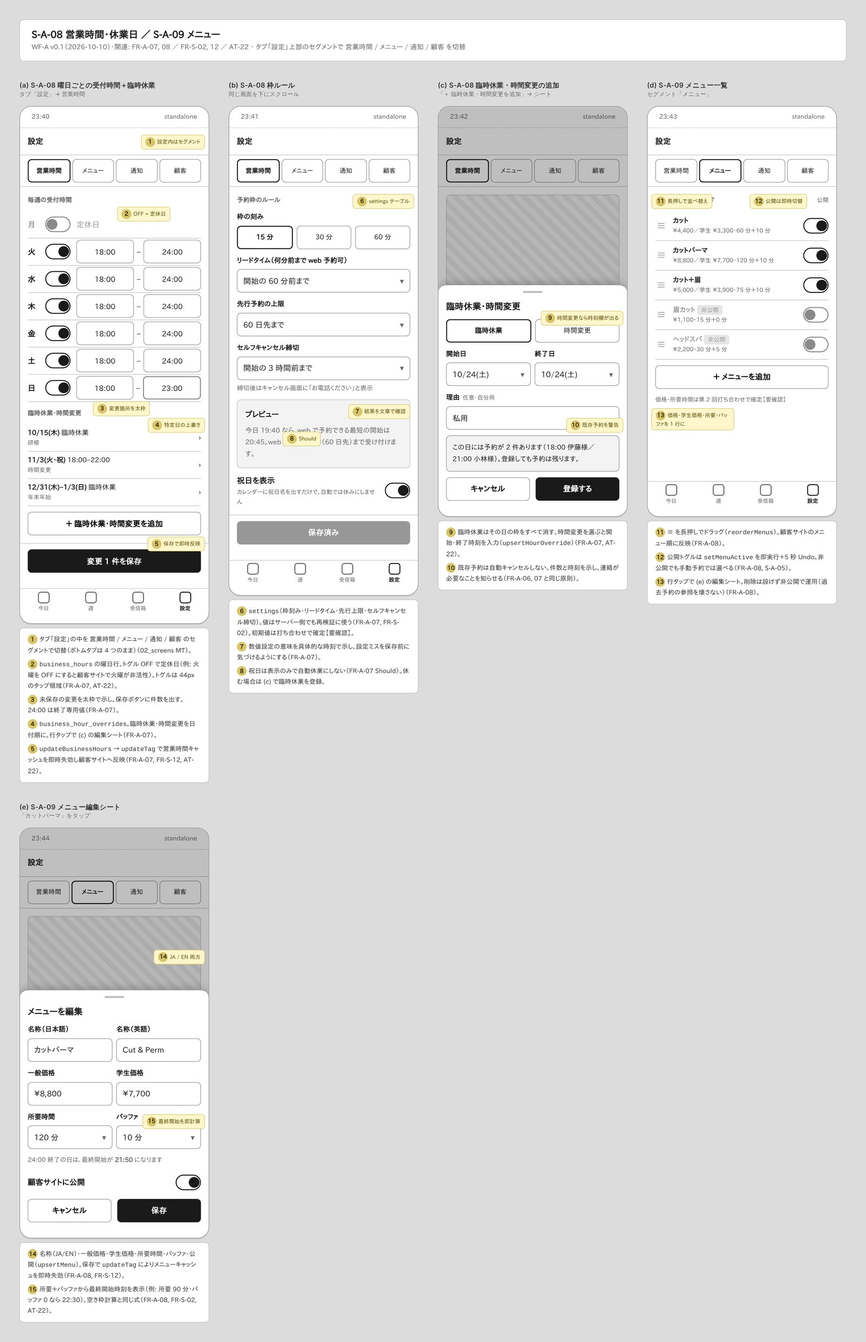
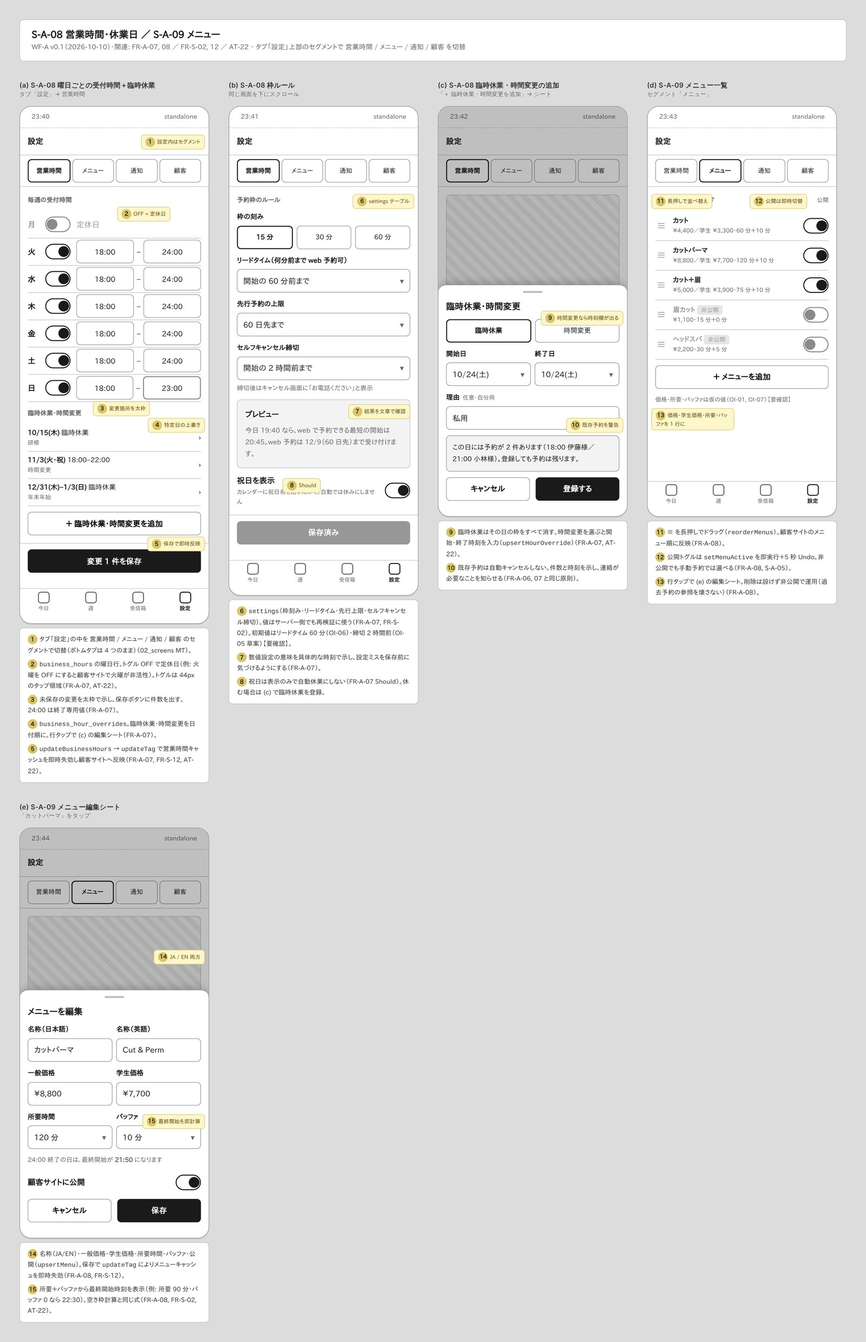
docs(wireframes): add admin PWA wireframes (10 screens, renders, flow doc, tools)
Claude-Session: https://claude.ai/code/session_01KB5shAyoFXW5CevLsyefNu

Changed region(s): [[0.25, 0.4659, 0.5, 0.528], [0.3125, 0.3106, 0.375, 0.3727]]

diff --git a/docs/04_wireframes/screens/admin_08_settings_hours_menus.html b/docs/04_wireframes/screens/admin_08_settings_hours_menus.html
@@ -100,7 +100,7 @@
       <div class="field"><span class="label">枠の刻み</span><div class="seg"><div class="radio on">15 分</div><div class="radio">30 分</div><div class="radio">60 分</div></div></div>
       <div class="field"><span class="label">リードタイム（何分前まで web 予約可）</span><div class="input sel filled">開始の 60 分前まで</div></div>
       <div class="field"><span class="label">先行予約の上限</span><div class="input sel filled">60 日先まで</div></div>
-      <div class="field"><span class="label">セルフキャンセル締切</span><div class="input sel filled">開始の 3 時間前まで</div><span class="help">締切後はキャンセル画面に「お電話ください」と表示</span></div>
+      <div class="field"><span class="label">セルフキャンセル締切</span><div class="input sel filled">開始の 2 時間前まで</div><span class="help">締切後はキャンセル画面に「お電話ください」と表示</span></div>
       <div class="card sunken"><b>プレビュー</b><p class="muted">今日 19:40 なら、web で予約できる最短の開始は 20:45。web 予約は 12/9（60 日先）まで受け付けます。</p></div>
       <div class="row between"><div><b>祝日を表示</b><p class="caption">カレンダーに祝日名を出すだけで、自動では休みにしません</p></div><span class="toggle on"></span></div>
     </div>
@@ -112,7 +112,7 @@
     <div class="note" style="top:764px;left:110px"><span class="n">8</span>Should</div>
   </div>
   <ul class="notes-list">
-    <li><span class="n">6</span><code>settings</code>（枠刻み・リードタイム・先行上限・セルフキャンセル締切）。値はサーバー側でも再検証に使う（FR-A-07, FR-S-02）。初期値は打ち合わせで確定【要確認】。</li>
+    <li><span class="n">6</span><code>settings</code>（枠刻み・リードタイム・先行上限・セルフキャンセル締切）。値はサーバー側でも再検証に使う（FR-A-07, FR-S-02）。初期値はリードタイム 60 分（OI-06）・締切 2 時間前（OI-05 草案）【要確認】。</li>
     <li><span class="n">7</span>数値設定の意味を具体的な時刻で示し、設定ミスを保存前に気づけるようにする（FR-A-07）。</li>
     <li><span class="n">8</span>祝日は表示のみで自動休業にしない（FR-A-07 Should）。休む場合は (c) で臨時休業を登録。</li>
   </ul>
@@ -163,7 +163,7 @@
         <div class="item" style="color:var(--wf-faint)"><span class="handle">≡</span><div class="grow"><b>ヘッドスパ</b> <span class="pill">非公開</span><br><span class="caption">¥2,200・30 分＋5 分</span></div><span class="toggle off"></span></div>
       </div>
       <button class="btn secondary">＋ メニューを追加</button>
-      <p class="caption">価格・所要時間は第 2 回打ち合わせで確定【要確認】</p>
+      <p class="caption">価格・所要・バッファは仮の値（OI-01, OI-07）【要確認】</p>
     </div>
     <nav class="tabbar"><div class="tab"><span class="ico"></span>今日</div><div class="tab"><span class="ico"></span>週</div><div class="tab"><span class="ico"></span>受信箱</div><div class="tab on"><span class="ico"></span>設定</div></nav>
   </div>

diff --git a/docs/04_wireframes/screens/admin_10_customers.html b/docs/04_wireframes/screens/admin_10_customers.html
@@ -88,13 +88,13 @@
     </div>
   </div>
     <div class="note" style="top:58px;right:8px"><span class="n">4</span>回数を先に</div>
-    <div class="note" style="top:246px;right:8px"><span class="n">5</span>OI: 制限の運用</div>
+    <div class="note" style="top:246px;right:8px"><span class="n">5</span>OI-16 制限の運用</div>
     <div class="note" style="top:460px;right:40px"><span class="n">6</span>行 → S-A-04</div>
     <div class="note" style="bottom:56px;left:8px"><span class="n">7</span>不可逆は確認あり</div>
   </div>
   <ul class="notes-list">
     <li><span class="n">4</span>来店・無断（<code>no_show_count</code>）・遅刻キャンセル（<code>late_cancel_count</code>）・最終来店を上部に集約（FR-A-13）。</li>
-    <li><span class="n">5</span><code>updateCustomerRestriction</code>。none / phone_only / blocked。運用基準（例: 無断 2 回で電話のみ）は【要確認】（FR-A-13）。</li>
+    <li><span class="n">5</span><code>updateCustomerRestriction</code>。none / phone_only / blocked。運用基準（既定案: 無断 2 回目以降で電話のみ）は【要確認: OI-16】（FR-A-13）。</li>
     <li><span class="n">6</span>履歴行タップで S-A-04（MT: CU → DT）。同一電話番号の予約は 1 顧客に紐づく（FR-A-13）。</li>
     <li><span class="n">7</span>JSON エクスポート（予約・同意履歴）、重複マージ、匿名化。匿名化だけは Undo できないため (c) の確認ダイアログを出す（FR-A-14）。</li>
   </ul>

diff --git a/docs/04_wireframes/tools/post_admin.py b/docs/04_wireframes/tools/post_admin.py
@@ -1,0 +1,33 @@
+"""PNG -> JPG (q85, <=1600px wide), delete PNGs, build admin_contact_sheet.jpg."""
+import glob, os, sys
+from PIL import Image
+
+DIR = sys.argv[1]
+MAXW = 1600
+jpgs = []
+for png in sorted(glob.glob(os.path.join(DIR, 'admin_[0-9][0-9]_*.png'))):
+    im = Image.open(png).convert('RGB')
+    if im.width > MAXW:
+        im = im.resize((MAXW, round(im.height * MAXW / im.width)), Image.LANCZOS)
+    jpg = png[:-4] + '.jpg'
+    im.save(jpg, 'JPEG', quality=85, optimize=True, progressive=True)
+    os.remove(png)
+    jpgs.append(jpg)
+    print(f'{os.path.basename(jpg)} {im.width}x{im.height} {os.path.getsize(jpg)//1024}KB')
+
+if not jpgs:
+    sys.exit(0)
+# contact sheet: all screens stacked, scaled to <=1600 wide, with 16px gaps
+all_jpgs = sorted(glob.glob(os.path.join(DIR, 'admin_[0-9][0-9]_*.jpg')))
+ims = [Image.open(p) for p in all_jpgs]
+W = min(MAXW, max(i.width for i in ims))
+ims = [i if i.width == W else i.resize((W, round(i.height * W / i.width)), Image.LANCZOS) for i in ims]
+gap = 16
+H = sum(i.height for i in ims) + gap * (len(ims) - 1)
+sheet = Image.new('RGB', (W, H), (200, 200, 200))
+y = 0
+for i in ims:
+    sheet.paste(i, (0, y)); y += i.height + gap
+out = os.path.join(DIR, 'admin_contact_sheet.jpg')
+sheet.save(out, 'JPEG', quality=85, optimize=True, progressive=True)
+print(f'admin_contact_sheet.jpg {W}x{H} {os.path.getsize(out)//1024}KB ({len(ims)} screens)')

diff --git a/docs/04_wireframes/admin_flow.md b/docs/04_wireframes/admin_flow.md
@@ -1,0 +1,234 @@
+# 管理 PWA ワイヤーフレーム（WF-A）
+
+## 文書情報
+
+| 項目 | 内容 |
+|---|---|
+| 文書 ID | WF-A |
+| 版 | v0.1 |
+| 日付 | 2026-10-10 |
+| 対象画面 | S-A-01〜S-A-12（管理 PWA `/admin`、日本語固定） |
+| 関連要件 | FR-A-01〜19、FR-S-01〜03, 07, 12、AT-11〜23, AT-30 |
+| 関連文書 | `../03_design/02_screens.md`（画面一覧・遷移 MT-01〜05）、`../03_design/03_screen_specs.md`（6〜9 章: S-A-02 / 05 / 06 / 10）、`customer_flow.md`（WF-C） |
+| 共通キット | `wf.css`（グレースケール、390×844 アートボード、8px グリッド）。ページ内 CSS はレイアウトのみ |
+
+### 表記ルール
+
+- グレースケールの構造図。実装では重なり警告などに赤（`#7c0000` 系）を使うが、WF では太枠＋「!」で表す。
+- 黄色の番号付き付箋は「振る舞い」の注記。各アートボード下の一覧で FR ID と合わせて説明する（番号は画面ファイルごとの通し番号）。
+- 時刻はすべて JST。今日 = 2026-10-10(土)、現在 19:40。受付 18:00〜24:00、定休日 = 月曜（OI-02, OI-03 の仮値）。
+- 価格・所要時間・バッファは見た目を確かめるための仮の値（OI-01, OI-07）。例: カット ¥4,400／学生 ¥3,300・60 分、カットパーマ ¥8,800・120 分。
+- 管理 PWA の骨格はボトムタブ「今日 / 週 / 受信箱 / 設定」と FAB「+」。設定の中は 営業時間 / メニュー / 通知 / 顧客 のセグメントで切り替える。
+- 押せる要素は 44px 以上（主要ボタン・入力 48px、タブ 56px、FAB 56px、予約カード 56px 以上）。キットの `.toggle`（52×32）は、見た目を変えずにタップ領域を 44px に広げている。
+
+---
+
+## 1. 画面一覧
+
+| # | 画面 ID | 画面 | 収録している状態 | HTML | 画像 |
+|---|---|---|---|---|---|
+| 1 | S-A-01 / S-A-12 | ログイン、インストール案内 | パスキーログイン、フォールバック（6 桁コード）、iOS Safari タブの 3 ステップ図解、Android インストールプロンプト | [admin_01_login_install.html](screens/admin_01_login_install.html) | [jpg](screens/admin_01_login_install.jpg) |
+| 2 | S-A-02 | 今日 | 通常日（予約 4＋ブロック 1）、予約のない日、オフライン（読み取り専用）、詳細シート | [admin_02_today.html](screens/admin_02_today.html) | [jpg](screens/admin_02_today.jpg) |
+| 3 | S-A-03 | 週 | 今週＋今週 KPI（Could）、次週（祝日・臨時休業・ブロック）、読み込み中 | [admin_03_week.html](screens/admin_03_week.html) | [jpg](screens/admin_03_week.jpg) |
+| 4 | S-A-04 | 予約詳細（全画面） | 確定済み、管理者キャンセル直後（5 秒 Undo） | [admin_04_booking_detail.html](screens/admin_04_booking_detail.html) | [jpg](screens/admin_04_booking_detail.jpg) |
+| 5 | S-A-05 | 手動予約 | 未入力、既存顧客サジェスト、重なり警告、保存後の確認 URL コピー | [admin_05_manual_booking.html](screens/admin_05_manual_booking.html) | [jpg](screens/admin_05_manual_booking.jpg) |
+| 6 | S-A-06 | 時間ブロック | FAB クイック操作、プリセット保存直後、期間指定、予約との重なり、ブロック詳細、削除直後 | [admin_06_time_block.html](screens/admin_06_time_block.html) | [jpg](screens/admin_06_time_block.jpg) |
+| 7 | S-A-07 | 受信箱 | 未確認 3 件、空状態（すべて確認済み直後）、前面表示中のアプリ内通知 | [admin_07_inbox.html](screens/admin_07_inbox.html) | [jpg](screens/admin_07_inbox.jpg) |
+| 8 | S-A-08 / S-A-09 | 営業時間・休業日、メニュー | 曜日テンプレート＋臨時休業、枠ルール、臨時休業の追加シート、メニュー一覧、メニュー編集シート | [admin_08_settings_hours_menus.html](screens/admin_08_settings_hours_menus.html) | [jpg](screens/admin_08_settings_hours_menus.jpg) |
+| 9 | S-A-10 | 通知・端末 | 未購読（オンボーディング最終段）、購読済み＋テスト通知＋端末一覧、再購読バナー、通知が許可されていない | [admin_09_settings_notifications.html](screens/admin_09_settings_notifications.html) | [jpg](screens/admin_09_settings_notifications.jpg) |
+| 10 | S-A-11 | 顧客一覧・詳細（Should） | 一覧・検索、詳細（制限・履歴）、匿名化の確認ダイアログ、匿名化後 | [admin_10_customers.html](screens/admin_10_customers.html) | [jpg](screens/admin_10_customers.jpg) |
+
+全画面を縦に並べた一覧: [admin_contact_sheet.jpg](screens/admin_contact_sheet.jpg)
+
+![S-A-01 / S-A-12 ログイン・インストール案内](screens/admin_01_login_install.jpg)
+![S-A-02 今日](screens/admin_02_today.jpg)
+![S-A-03 週](screens/admin_03_week.jpg)
+![S-A-04 予約詳細](screens/admin_04_booking_detail.jpg)
+![S-A-05 手動予約](screens/admin_05_manual_booking.jpg)
+![S-A-06 時間ブロック](screens/admin_06_time_block.jpg)
+![S-A-07 受信箱](screens/admin_07_inbox.jpg)
+![S-A-08 / S-A-09 営業時間・メニュー](screens/admin_08_settings_hours_menus.jpg)
+![S-A-10 通知・端末](screens/admin_09_settings_notifications.jpg)
+![S-A-11 顧客](screens/admin_10_customers.jpg)
+
+---
+
+## 2. 画面フロー
+
+矢印ラベルはトリガー。点線は例外・復旧の経路。
+
+```mermaid
+flowchart TD
+  SF["Safari タブで /admin を開く"] -->|"standalone でない"| INS["S-A-12 インストール案内<br/>共有 → ホーム画面に追加 → アイコンから起動"]
+  INS -->|"アイコンから起動"| AUTH{"有効なセッション?"}
+  ICON["ホーム画面アイコン起動<br/>start_url /admin"] --> AUTH
+  AUTH -- "いいえ" --> L["S-A-01 ログイン<br/>Face ID でログイン"]
+  AUTH -- "はい" --> TODAY["S-A-02 今日"]
+  L -->|"パスキー成功（初回）"| SN
+  L -->|"パスキー成功（2 回目以降）"| TODAY
+  L -.->|"Face ID が使えない"| LF["S-A-01 6 桁コード"] --> TODAY
+  PUSH["プッシュ通知をタップ"] --> DT["S-A-04 予約詳細"]
+  PUSH -.->|"iOS でルートに戻された"| TODAY
+  TODAY -->|"予約カード"| SHEET["詳細シート"]
+  SHEET -->|"詳細を開く"| DT
+  TODAY -->|"未確認 n 件"| IB["S-A-07 受信箱"]
+  TODAY -->|"FAB + → 今から 30 分 / 1 時間 / 終日<br/>即保存＋5 秒 Undo"| TODAY
+  TODAY -->|"FAB + → 手動予約 / 空き区間タップ"| MB["S-A-05 手動予約"]
+  TODAY -->|"FAB + → 期間を指定してブロック"| BK["S-A-06 時間ブロック"]
+  TODAY -.->|"getSubscription() が null<br/>再購読バナー"| SN
+  TODAY -->|"タブ 週"| WK["S-A-03 週"]
+  WK -->|"日セル / 日別リスト"| TODAY
+  IB -->|"行"| DT
+  DT -->|"← 戻る"| TODAY
+  DT -->|"状態変更（キャンセル系は 5 秒 Undo）"| DT
+  MB -.->|"重なり → 時間を変更"| MB
+  MB -->|"保存"| SAVED["確認 URL コピーシート"]
+  SAVED -->|"閉じて今日に戻る"| TODAY
+  BK -.->|"予約と重なり → 期間を変更"| BK
+  BK -->|"ブロックする"| TODAY
+  TODAY -->|"タブ 設定"| SH["S-A-08 営業時間・休業日"]
+  SH <-->|"セグメント"| SM["S-A-09 メニュー"]
+  SH <-->|"セグメント"| SN["S-A-10 通知・端末"]
+  SH <-->|"セグメント"| CU["S-A-11 顧客"]
+  SN -->|"通知をオンにする → 許可"| SN
+  SN -.->|"denied / ダイアログが出ない"| BL["S-A-10 設定 > 通知 の案内"]
+  BL -->|"もう一度試す"| SN
+  CU -->|"予約履歴の行"| DT
+```
+
+### 2.1 特に短くした 2 つの経路
+
+**A. 2 タップで「今から 1 時間」をブロック（FR-A-06, AT-21, MT-03）**
+
+| 手順 | 画面 | 操作 | 結果 |
+|---|---|---|---|
+| 1 | S-A-02 今日 | FAB「+」をタップ | クイック操作シート。各プリセットに実際の区間（例「今から 1 時間ブロック 18:00–19:00」）を表示 |
+| 2 | シート | 「今から 1 時間ブロック」をタップ | 確認画面なしで `createTimeBlock({ preset })`。トースト「18:00–19:00 をブロックしました［取り消す］」5 秒。顧客サイトの該当枠は次回取得から消える |
+
+- 開始は現在時刻を 5 分単位で切り捨て。区間は半開 `[18:00, 19:00)` なので 19:00 開始の予約とは重ならない。
+- 予約と重なる場合だけ即保存せず、S-A-06 (d) の警告に切り替える。
+
+**B. Instagram DM の予約を手動で入れて確認 URL を返す（FR-A-05, AT-21）**
+
+| 手順 | 画面 | 操作 | 結果 |
+|---|---|---|---|
+| 1 | S-A-02 今日 | FAB「+」→「手動予約」、または空き区間をタップ | S-A-05。日付・開始が初期値で入る |
+| 2 | S-A-05 | お名前（かなで既存顧客をサジェスト）・メニュー・開始・経路「Instagram」 | 300ms デバウンスで重なり判定。重なれば「19:00–20:00 の佐藤 健様と重なります」＋近い空き時間 3 つ |
+| 3 | S-A-05 | 「保存」 | サーバーが advisory lock 下で再判定して保存 |
+| 4 | 確認 URL シート | ja / en を選び「確認 URL をコピー」または「DM 用の文面をコピー」 | 定型文＋URL を DM に貼る。お客様はリンクから予約内容の確認とキャンセルができる |
+| 5 | シート | 「閉じて今日に戻る」 | 今日ビューに新しいカードが出る |
+
+- 入力中の内容は `sessionStorage` に下書き保存し、iOS のバックグラウンド復帰によるリロードでも消えない（FR-A-10, AT-17）。
+
+---
+
+## 3. 画面ごとの設計意図
+
+### S-A-01 ログイン ／ S-A-12 インストール案内
+
+- 主ボタンは「Face ID でログイン」の 1 つだけ。パスワード欄と新規登録は置かない（管理者 1 名、サインアップ無効）（FR-A-01, AT-13）。
+- フォールバックは、メールで受け取った 6 桁コードをアプリ内で入力する方式を推奨する。マジックリンクは Safari で開いてしまい、ストレージが分かれた PWA にセッションが入らないため【要確認: OI-12】（FR-A-01）。
+- Safari タブで開いたときは通知ボタンを出さず、「共有 → ホーム画面に追加 → アイコンから起動」の 3 ステップ図解だけを示す（FR-A-09, AT-11, AT-12）。
+- Android は `beforeinstallprompt` を保持して「アプリをインストール」ボタンを出す。`prompt()` は 1 回だけで、拒否後は ⋮ メニューの手順に切り替える（FR-A-15, AT-20）。
+- Cookie は `Max-Age` 30 日のローリングで、アプリを閉じて開き直してもログインが続く（FR-A-09, AT-17）。
+
+### S-A-02 今日
+
+- 18:00〜24:00 を 1 行 15 分（28px）の縦タイムラインで表示する。現在線は 1 分ごとに動き、起動時はその位置までスクロールする（FR-A-02）。
+- 予約カードは高さ 56px 以上（60 分 = 110px）。氏名（ふりがな）・メニュー・`source`・状態チップ（文字）・備考の有無・未確認ドットを載せ、`tel:` ボタンはカードとは別の 44px 円にする（FR-A-02）。
+- ブロックは斜線＋破線枠で、予約と形で区別する。空き区間をタップすると、その時刻で手動予約またはブロックを始められる（FR-A-05, 06）。
+- ヘッダの「未確認 n 件」は起動時・`visibilitychange`・表示中 20 秒ごとに更新する。プッシュが届かなくても 20 秒以内に気づける（FR-A-11, AT-15）。
+- オフライン時はキャッシュを読み取り専用で表示し、取得時刻を明示する。書き込み系は無効にするが、`tel:` は使える（FR-A-17, AT-18）。
+- カードタップで開く詳細シートは要点と「次の状態」1 つだけを置く。キャンセル系は全画面の S-A-04 に分け、誤タップを防ぐ（FR-A-04）。
+
+### S-A-03 週
+
+- 7 列のセルに日付・件数・空き枠数を出し、定休日は「休」、ブロックは斜線バー、満枠は「満」で示す。色には頼らない（FR-A-03）。
+- セルは幅 48px と小さいので、同じ内容を 56px 行の日別リストでも出す。読み上げ順もこのリストで担保する（FR-A-03）。
+- 祝日は名称を表示するだけで、自動では休みにしない。臨時休業は「臨休」＋ラベルで表示する（FR-A-07 Should）。
+- 今週 KPI（予約数・売上見込み・空き枠率・直近の無断キャンセル）は場所だけ確保する Could 項目（FR-A-19）。
+
+### S-A-04 予約詳細
+
+- standalone にはブラウザの戻るがないため、常に明示的な「←」を置く（FR-A-04）。
+- 全項目に加え、`source`・作成日時・同意したポリシーの版を表示する（FR-A-04）。
+- 状態は 来店 → 施術開始 → 完了 の順で、次に押すものだけを塗りボタンにする。無断・管理者・遅刻キャンセルは説明付きの別グループに分ける（FR-A-04）。
+- キャンセル系は確認ダイアログを出さずに即時実行し、5 秒の「取り消す」で `confirmed` に戻せる。無断は `no_show_count` +1（FR-A-04, AT-21）。
+- お客様用の確認 URL のコピーと再発行をここにも置き、DM での再送に使う（FR-A-05）。
+
+### S-A-05 手動予約
+
+- 必須はお名前・メニュー・日時・経路の 4 つ。電話は任意で、入れた場合は `phone_unverified` として保存する（FR-A-05）。
+- お名前 2 文字以上でかな部分一致・電話完全一致のサジェストを出す。候補には来店回数と制限 pill も出し、同姓の取り違えを防ぐ（FR-A-05, 13）。
+- 重なりは入力中に判定し、開始欄を太枠にして近い空き時間を 3 つ提案する。既定ボタンは「時間を変更」（FR-A-05, MT-05）。
+- 保存後は ja / en を選べる確認 URL と DM 用の定型文をコピーでき、「DM → 手動予約 → 確認 URL」の経路がここで終わる（FR-A-05）。
+- 下書きを `sessionStorage` に保存し、リロードで入力が消えないようにする（FR-A-10, AT-17）。
+
+### S-A-06 時間ブロック
+
+- 「今から 30 分 / 1 時間 / 終日」は FAB から 2 タップで即保存し、確認の代わりに 5 秒 Undo で救う（FR-A-06, AT-21）。
+- 期間指定画面でもプリセットを選べる。種別（休憩 / 私用 / 臨時休業）はラジオ、時刻は 5 分刻みのネイティブ入力（FR-A-06）。
+- 保存前に、重なりがないことと顧客サイトでどの枠が消えるかを 1 行で示す（FR-A-06）。
+- 予約と重なる場合は件数と時刻を警告し、既定は「期間を変更」にする。「それでもブロック」で保存しても予約は消さない（FR-A-06）。
+- 削除もソフトデリート＋5 秒 Undo。復元するときに予約が入っていれば、同じ警告を出す（FR-A-06）。
+
+### S-A-07 受信箱
+
+- 対象は新規 web 予約と顧客キャンセルのうち未確認のもの。「新規」は実線、「キャンセル」は破線枠＋取消線で示す（FR-A-10, 11）。
+- 行をタップすると S-A-04 を開き、その時点で確認済みにする。「すべて確認済みにする」は 5 秒 Undo 付き（FR-A-11）。
+- 空状態の文言で「通知が来なくても開けば 20 秒以内に反映される」ことを伝え、プッシュへの過度な依存を避ける（FR-A-11, AT-15）。
+- 前面表示中に OS バナーが出ない端末では、アプリ内トーストで代わりに知らせる。iOS で通知タップ後にルートへ戻される現象（WebKit 268797）も、バッジと受信箱で吸収する（FR-A-10, MT-02）。
+
+### S-A-08 営業時間・休業日 ／ S-A-09 メニュー
+
+- 曜日ごとの行をトグル＋開始・終了時刻で編集する。トグル OFF が定休日（FR-A-07, AT-22）。
+- 臨時休業・時間変更は日付順の一覧と追加シートで管理する。既存予約がある日は件数と時刻を示すが、自動ではキャンセルしない（FR-A-07）。
+- 枠ルール（刻み・リードタイム・先行上限・セルフキャンセル締切）は、結果を具体的な時刻のプレビューで確かめられるようにする（FR-A-07）。
+- 保存すると `updateTag` でキャッシュを即時に失効させ、顧客サイトにすぐ反映する（FR-A-07, 08, FR-S-12, AT-22）。
+- メニューは一覧で価格・学生価格・所要・バッファ・公開を 1 行に収める。並べ替えは長押し、削除は設けず非公開で運用する（FR-A-08）。
+- 編集シートでは、所要＋バッファから計算した最終開始時刻をその場で表示する（FR-A-08, AT-22）。
+
+### S-A-10 通知・端末
+
+- オンボーディングは「ホーム画面に追加 → 起動 → ログイン → 通知をオンにする」の 4 ステップを進捗で示す一本道（FR-A-09, AT-11〜13）。
+- 「通知をオンにする」はタップの中で `requestPermission()` → `subscribe()` → `subscribePush` まで行う（FR-A-09, AT-13）。
+- 「テスト通知を送る」はサーバー応答（201）と実際に届いたかを突き合わせる。「届かない」なら同じ画面で購読を作り直せる（FR-A-09, AT-14）。
+- 起動のたびに `getSubscription()` を確認し、null なら今日ビューに再購読バナーを出す。判定には permission ではなく購読の有無を使う（FR-A-09, AT-17）。
+- 許可されていないときは「設定 > 通知 > 予約管理」の道順と集中モードの確認を案内する（FR-A-09, AT-14b）。
+- 端末一覧（`last_seen_at`、失敗回数）と「この端末以外をログアウト」で、端末を紛失したときに対処できる（FR-A-16, AT-19）。
+
+### S-A-11 顧客一覧・詳細（Should）
+
+- 名前・ふりがな・電話で検索し、各行に来店回数・最終来店・`no_show_count`・制限 pill を表示する（FR-A-13）。
+- 詳細では回数を上部にまとめ、web 予約の制限（なし / 電話のみ / 受付停止）を選べるようにする（FR-A-13）。
+- 予約履歴の行から S-A-04 に移動できる。JSON エクスポートと重複マージもここに置く（FR-A-13, 14）。
+- 匿名化だけは元に戻せないため、例外的に確認ダイアログとチェックボックスを置く。実行後は日時・メニュー・状態だけが残る（FR-A-14, AT-30）。
+
+---
+
+## 4. 検証結果（2026-10-10）
+
+`render.mjs`（Playwright Chromium、deviceScaleFactor 1.5、ビューポート 1780×900、`document.fonts.ready` 後に fullPage 撮影）で全 10 ファイルを描画し、`page.evaluate` で次の 3 点を確認した。
+
+| 項目 | 基準 | 結果 |
+|---|---|---|
+| 横はみ出し | どの `.frame` でも `scrollWidth > clientWidth` にならない | 39 フレーム中 0 件 |
+| タップ領域 | `.btn, .slot, .radio, .input, .tab, .fab, .toggle, .item` の高さ ≥ 44px | 349 要素中 0 件（最小 44px） |
+| 予約カード | `.booking` の高さ ≥ 56px（FR-A-02） | 18 枚中 0 件（最小 56px） |
+
+- キットの `.toggle` は高さ 32px のため、S-A-08 / 09 ではページ内 CSS で見た目を変えずにタップ領域を 44px に広げた。
+- 画像は PNG から JPEG（品質 85、幅 1600px 以下）に変換し、全画面の一覧 `admin_contact_sheet.jpg` を作成した。
+
+---
+
+## 5. 未決事項
+
+| # | 内容 | WF での仮置き | 影響する画面 | 関連 |
+|---|---|---|---|---|
+| 1 | 【要確認】手動予約で意図的な重複（掛け持ち）を許すか | 「それでも保存」を補助ボタンとして描いた。要件の既定案は「許容しない（警告のみで保存不可）」で、その場合はボタンを消し「時間を変更」だけにする | S-A-05 (b)、S-A-06 (d) の「それでもブロック」は別扱い（ブロックは予約を消さないため残す） | OI-11, FR-A-05 |
+| 2 | 【要確認】`phone_only` の運用（何回の無断で電話のみにするか、自動か手動か） | 手動で選ぶラジオ。既定案は「無断 2 回目以降」。自動で切り替える場合は詳細に「自動設定」の表示と解除操作が必要 | S-A-11 (b)、S-A-05 のサジェスト候補の pill | OI-16, FR-A-13 |
+| 3 | 【要確認】店舗住所の掲載可否 | 管理 PWA には住所を出していない。確認 URL・DM 定型文が開く完了画面（S-C-05）の住所表示に連動する。掲載しない場合は DM 定型文に「場所は別途ご案内」の一文を入れるか検討 | S-A-05 (c) の DM 文面 | OI-09, FR-C-11, 14 |
+| 4 | 【要確認】ログインのフォールバック方式 | アプリ内 6 桁コードを推奨（マジックリンクは PWA にセッションが入らない） | S-A-01 (b) | OI-12, FR-A-01 |
+| 5 | 【要確認】「遅刻キャンセル」の定義（締切後のキャンセルか、遅刻による取消か）と `late_cancel_count` の加算条件 | 「締切後・遅刻による取消」と表記 | S-A-04、S-A-11 | OI-05, FR-A-04, 13 |
+| 6 | 【要確認】アプリ名（ホーム画面アイコン名・通知の差出人） | 「予約管理」 | S-A-01, S-A-10, S-A-12 | OI-08 |
+| 7 | 【要確認】週ビューの「空き枠数」の基準メニュー（最短メニュー基準か、60 分基準か） | 60 分枠を想定した数字 | S-A-03 | FR-A-03 |
